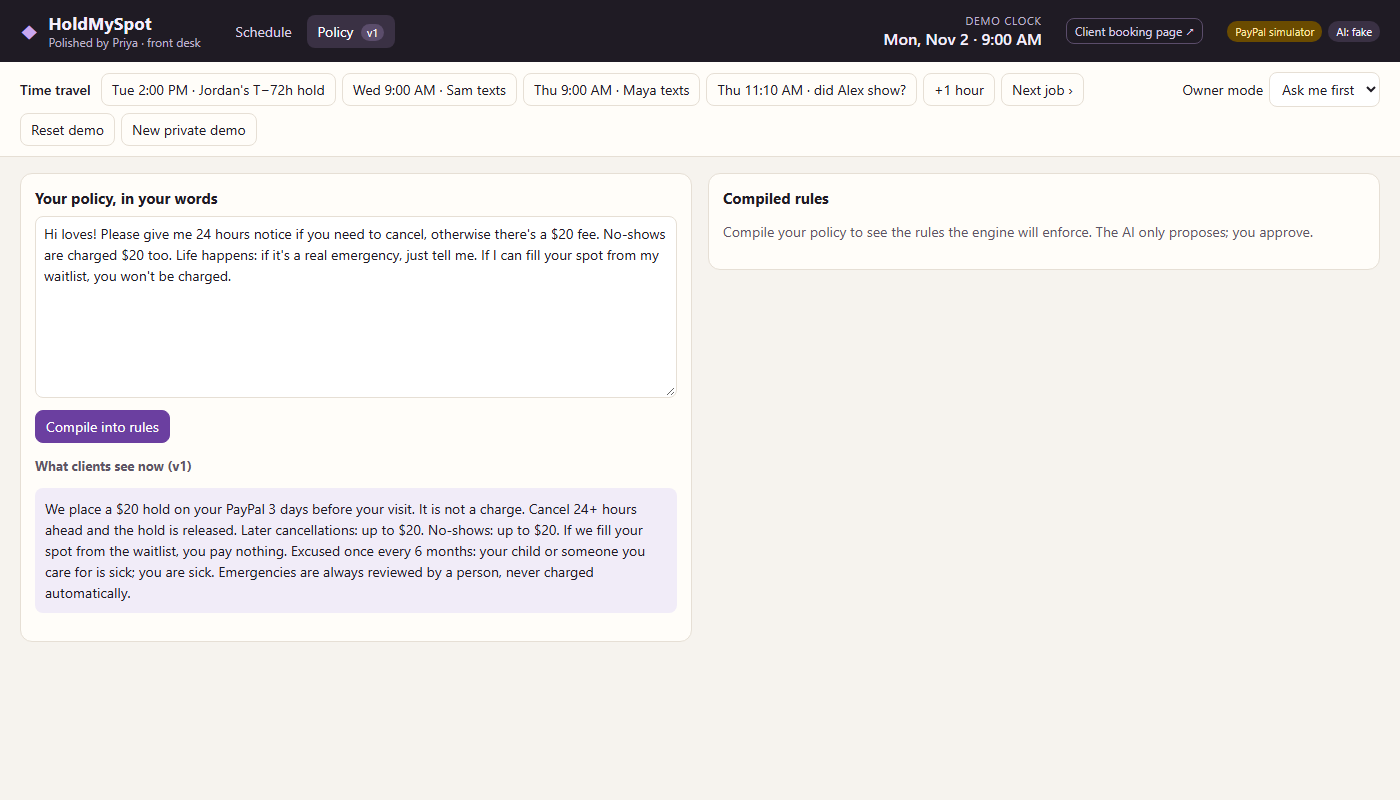
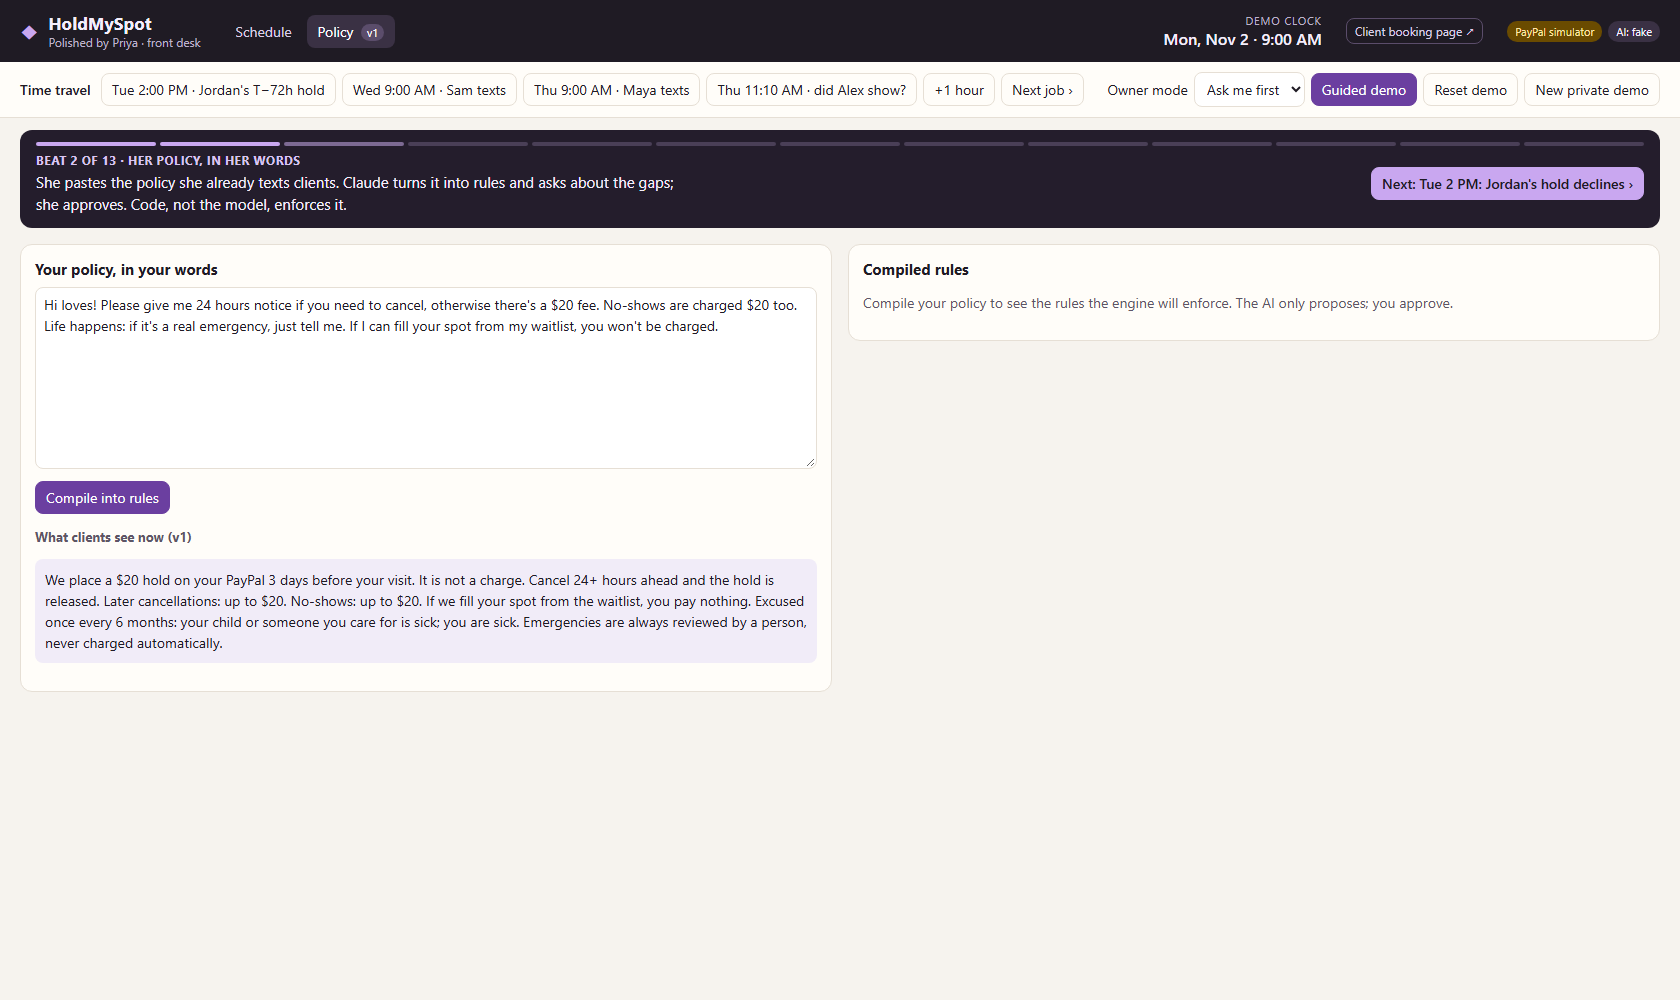
Headless UI check (Playwright + axe, 0 violations), screenshot refresh, a11y fixes (labels, landmarks, headings, contrast, focusable scroll regions), phone thread no longer scrolls the page

Changed region(s): [[0.0, 0.0, 1.0, 0.375], [0.0, 0.4688, 0.4914, 0.75]]

diff --git a/server/src/scripts/ui-check.ts b/server/src/scripts/ui-check.ts
@@ -1,0 +1,151 @@
+/**
+ * Headless UI check: starts the app in-process (PayPal simulator, fake LLM) on an unusual port,
+ * drives the built web UI in an isolated headless Chromium, runs axe-core on every screen, and
+ * refreshes docs/screenshots. Needs `npm run build -w web` first and the Playwright Chromium build
+ * (`npx playwright-core install chromium-headless-shell` if missing).
+ *
+ *   npm run ui-check            # from the repo root
+ *   UI_CHECK_SHOTS=0 npm run ui-check   # skip screenshots
+ */
+import { mkdirSync, readFileSync } from 'node:fs';
+import { createRequire } from 'node:module';
+import { dirname, resolve } from 'node:path';
+import { fileURLToPath } from 'node:url';
+import { chromium, type Page } from 'playwright-core';
+import { buildApp } from '../app.js';
+import { Workspaces } from '../workspaces.js';
+
+const here = dirname(fileURLToPath(import.meta.url));
+const root = resolve(here, '../../..');
+const shots = resolve(root, 'docs/screenshots');
+const takeShots = process.env.UI_CHECK_SHOTS !== '0';
+const port = Number(process.env.UI_CHECK_PORT ?? 18091);
+const require = createRequire(import.meta.url);
+const axeSource = readFileSync(require.resolve('axe-core/axe.min.js'), 'utf8');
+
+type Violation = { id: string; impact: string; help: string; nodes: Array<{ target: string[] }> };
+const failures: string[] = [];
+const report: string[] = [];
+
+async function axe(page: Page, label: string): Promise<void> {
+  await page.addScriptTag({ content: axeSource });
+  const v = (await page.evaluate(async () => {
+    // @ts-expect-error injected global
+    const r = await window.axe.run(document, { resultTypes: ['violations'] });
+    return r.violations.map((x: any) => ({ id: x.id, impact: x.impact, help: x.help, nodes: x.nodes.map((n: any) => ({ target: n.target })) }));
+  })) as Violation[];
+  const bad = v.filter((x) => x.impact === 'serious' || x.impact === 'critical');
+  report.push(`axe ${label}: ${v.length} violations (${bad.length} serious/critical)${v.length ? ': ' + v.map((x) => `${x.id}[${x.impact}]x${x.nodes.length}`).join(', ') : ''}`);
+  for (const x of bad) failures.push(`${label}: ${x.id} (${x.impact}) ${x.help} @ ${x.nodes.slice(0, 3).map((n) => n.target.join(' ')).join(' | ')}`);
+}
+
+async function shot(page: Page, name: string, fullPage = false): Promise<void> {
+  if (takeShots) await page.screenshot({ path: resolve(shots, name), fullPage });
+}
+
+function check(cond: boolean, what: string): void {
+  report.push(`${cond ? 'ok  ' : 'FAIL'} ${what}`);
+  if (!cond) failures.push(what);
+}
+
+const workspaces = new Workspaces();
+await workspaces.create('demo');
+const app = await buildApp({ workspaces, webDist: resolve(root, 'web/dist') });
+await app.listen({ port, host: '127.0.0.1' });
+const base = `http://127.0.0.1:${port}`;
+mkdirSync(shots, { recursive: true });
+
+const browser = await chromium.launch({ headless: true });
+try {
+  const newWs = async () => (await (await fetch(`${base}/api/workspaces`, { method: 'POST' })).json()).id as string;
+
+  // ---- desktop console + guided demo ----
+  const desk = await browser.newPage({ viewport: { width: 1680, height: 1000 } });
+  desk.on('pageerror', (e) => failures.push(`page error: ${e.message} ${(e.stack ?? '').split('\n').slice(0, 4).join(' <- ')}`));
+  desk.on('console', (m) => m.type() === 'error' && report.push(`console: ${m.text()}`));
+  const ws1 = await newWs();
+  await desk.goto(`${base}/?ws=${ws1}&demo=1`);
+  await desk.getByRole('button', { name: /^Start:/ }).waitFor();
+  await axe(desk, 'console desktop (start)');
+  await shot(desk, 'console-main.png');
+  const chipText = async (client: string) => (await desk.locator('.booking .chip.big').textContent())?.trim() + ` (${client})`;
+  const beats: Record<number, string> = {};
+  for (let i = 1; i <= 13; i++) {
+    await desk.locator('.demo-next').click();
+    await desk
+      .getByText(`Beat ${i} of 13`)
+      .waitFor({ timeout: 8000 })
+      .catch(async (e) => {
+        await desk.screenshot({ path: resolve(shots, `../ui-check-fail-beat${i}.png`) });
+        throw new Error(`beat ${i} did not show (${failures.join('; ')}): ${e}`);
+      });
+    await desk.waitForTimeout(150);
+    if (i === 2) {
+      await axe(desk, 'policy tab');
+      await shot(desk, 'policy-editor.png');
+    }
+    if ([4, 6, 9, 12, 13].includes(i)) beats[i] = await chipText(String(i));
+    if (i === 6) await shot(desk, 'console-hero1-excused.png');
+    if (i === 9) {
+      await axe(desk, 'console desktop (hero 2 refilled)');
+      await shot(desk, 'console-hero2-refilled.png');
+    }
+    if (i === 12) await shot(desk, 'console-hero3-charged.png');
+  }
+  check(/^held \$20/.test(beats[4]), `beat 4 Jordan re-approved → ${beats[4]}`);
+  check(/^released · \$0/.test(beats[6]), `beat 6 Sam excused → ${beats[6]}`);
+  check(/^released · \$0/.test(beats[9]), `beat 9 Maya refilled → ${beats[9]}`);
+  check(/^charged \$20/.test(beats[12]), `beat 12 Alex charged → ${beats[12]}`);
+  check(/^refunded \$20/.test(beats[13]), `beat 13 Alex refunded → ${beats[13]}`);
+  await desk.locator('details.legend summary').click();
+  await axe(desk, 'console desktop (end, legend open)');
+  await shot(desk, 'console-demo-end.png');
+  check((await desk.getByRole('button', { name: /Replay from the start/ }).count()) === 1, 'demo ends with a replay button');
+
+  // ---- phone-width console ----
+  const mob = await browser.newPage({ viewport: { width: 390, height: 844 }, deviceScaleFactor: 2, isMobile: true, hasTouch: true });
+  await mob.goto(`${base}/?ws=${ws1}&sel=${(await (await fetch(`${base}/api/ws/${ws1}/demo`)).json()).bookingIds.maya}&phone=maya`);
+  await mob.locator('.strip').waitFor();
+  const overflow = await mob.evaluate(() => document.documentElement.scrollWidth - window.innerWidth);
+  check(overflow <= 0, `console at 390px has no sideways page scroll (overflow ${overflow}px)`);
+  await axe(mob, 'console 390px');
+  await shot(mob, 'console-mobile.png');
+
+  // ---- booking page (390px): book + approve the hold ----
+  const ws2 = await newWs();
+  const book = await browser.newPage({ viewport: { width: 390, height: 844 }, deviceScaleFactor: 2, isMobile: true, hasTouch: true });
+  await book.goto(`${base}/book?ws=${ws2}`);
+  await book.locator('.slot').first().waitFor();
+  const bOverflow = await book.evaluate(() => document.documentElement.scrollWidth - window.innerWidth);
+  check(bOverflow <= 0, `booking page at 390px has no sideways scroll (overflow ${bOverflow}px)`);
+  await axe(book, 'booking page 390px');
+  await book.locator('.slot').first().click();
+  await book.getByLabel('Your name').fill('Jamie Doe');
+  await book.getByRole('checkbox').check();
+  await shot(book, 'booking-page-mobile.png', true);
+  await book.getByRole('button', { name: 'Book and approve with PayPal' }).click();
+  await book.getByRole('heading', { name: 'One last step' }).waitFor();
+  await axe(book, 'booking page approve step');
+  await book.getByRole('button', { name: 'Approve with PayPal' }).click();
+  await book.getByRole('heading', { name: "You're booked" }).waitFor();
+  const doneText = (await book.locator('.book-card.done').textContent()) ?? '';
+  check(/not a charge/.test(doneText), 'booking page confirms the hold is not a charge');
+  await shot(book, 'booking-page-booked.png');
+
+  // ---- error state: unknown workspace ----
+  const err = await browser.newPage({ viewport: { width: 390, height: 844 } });
+  await err.goto(`${base}/?ws=gone`);
+  await err.getByRole('heading', { name: /isn’t available/ }).waitFor();
+  await axe(err, 'console unknown workspace');
+  check(true, 'unknown workspace shows an error state');
+} finally {
+  await browser.close();
+  await app.close();
+}
+
+console.log(report.join('\n'));
+if (failures.length) {
+  console.error(`\n${failures.length} failure(s):\n- ${failures.join('\n- ')}`);
+  process.exit(1);
+}
+console.log('\nui-check passed');

diff --git a/web/src/App.tsx b/web/src/App.tsx
@@ -123,7 +123,7 @@ export function App() {
 
   if (!s) {
     return loadError ? (
-      <div className="loading" role="alert">
+      <main className="loading">
         <h1>This demo workspace isn’t available</h1>
         <p className="muted">
           {loadError}. Private demos are kept in memory and reset when the server restarts.
@@ -131,7 +131,7 @@ export function App() {
         <a className="button primary" href="/">
           Open the shared demo
         </a>
-      </div>
+      </main>
     ) : (
       <div className="loading" role="status" aria-live="polite">
         <span className="spinner" aria-hidden /> Loading HoldMySpot…
@@ -149,11 +149,11 @@ export function App() {
             ◆
           </span>
           <div>
-            <div className="brand-name">HoldMySpot</div>
+            <h1 className="brand-name">HoldMySpot</h1>
             <div className="brand-sub">{s.business} · front desk</div>
           </div>
         </div>
-        <nav className="tabs">
+        <nav className="tabs" aria-label="Views">
           <button className={tab === 'console' ? 'on' : ''} onClick={() => setTab('console')}>
             Schedule
           </button>
@@ -176,7 +176,7 @@ export function App() {
         </div>
       </header>
 
-      <div className="travel">
+      <nav className="travel" aria-label="Demo clock and controls">
         <span className="travel-label">Time travel</span>
         {SCENES.map((sc) => (
           <button key={sc.label} disabled={busy || sc.at <= s.now} onClick={() => run(() => api.travel(sc.at))}>
@@ -214,7 +214,7 @@ export function App() {
         >
           New private demo
         </button>
-      </div>
+      </nav>
 
       {demoOn && s.paymentsMode === 'mock' && <DemoBar api={api} s={s} busy={busy} run={run} applyView={applyView} />}
 
@@ -236,7 +236,7 @@ export function App() {
             <WeekGrid s={s} selected={selected} onSelect={setSelected} />
             <Legend />
           </section>
-          <aside className="side">
+          <aside className="side" aria-label="Approvals and booking details">
             <Approvals s={s} busy={busy} onResolve={(id, c) => run(() => api.resolve(id, c))} onSelect={setSelected} />
             {sel ? (
               <BookingPanel b={sel} s={s} api={api} busy={busy} onRefund={() => run(() => api.refund(sel.id))} onApprove={(o) => run(() => api.simApprove(o))} />
@@ -244,7 +244,7 @@ export function App() {
               <div className="card muted">Select a booking to see its money timeline.</div>
             )}
           </aside>
-          <aside className="phone-col">
+          <aside className="phone-col" aria-label="Client text messages">
             <Phone s={s} busy={busy} clientId={phone} setClientId={setPhone} onSend={(c, t) => run(() => api.send(c, t))} />
           </aside>
         </main>
@@ -480,9 +480,9 @@ function Approvals({
   };
   return (
     <div className="card approvals">
-      <h3>
+      <h2>
         Needs you <span className="count">{s.approvals.length}</span>
-      </h3>
+      </h2>
       {s.approvals.length === 0 && <p className="muted">Nothing to decide. Charges always wait for your tap.</p>}
       {s.approvals
         .slice()
@@ -529,7 +529,7 @@ function BookingPanel({
     <div className="card booking">
       <div className="booking-head">
         <div>
-          <h3>{b.clientName}</h3>
+          <h2>{b.clientName}</h2>
           <div className="muted">
             {b.serviceName} · {fmtDay(b.start)} {fmtTime(b.start)}
           </div>
@@ -543,8 +543,8 @@ function BookingPanel({
       <dl className="facts">
         <dt>State</dt>
         <dd className="mono">{b.state}</dd>
-        <dt>Hold</dt>
-        <dd>{usd(b.holdCents)} authorized on PayPal</dd>
+        <dt>Hold amount</dt>
+        <dd>{usd(b.holdCents)}</dd>
         {b.capturedCents !== undefined && (
           <>
             <dt>Charged</dt>
@@ -589,9 +589,9 @@ function BookingPanel({
           </button>
         )}
       </div>
-      <h4>Money timeline</h4>
+      <h3>Money timeline</h3>
       {audit.length === 0 && <p className="muted small">Loading the audit log…</p>}
-      <ol className="timeline" aria-label={`Audit log for ${b.clientName}`}>
+      <ol className="timeline" tabIndex={0} aria-label={`Audit log for ${b.clientName}`}>
         {audit.map((e) => (
           <li key={e.seq} className={`t-${e.kind}`}>
             <span className="t-time">
@@ -621,8 +621,12 @@ function Phone({
 }) {
   const [text, setText] = useState('');
   const thread = s.messages.filter((m) => m.clientId === clientId);
-  const endRef = useRef<HTMLDivElement>(null);
-  useEffect(() => endRef.current?.scrollIntoView({ block: 'end' }), [thread.length, clientId]);
+  const threadRef = useRef<HTMLDivElement>(null);
+  useEffect(() => {
+    // scroll only the thread, never the page (scrollIntoView would also scroll the window on phones)
+    const el = threadRef.current;
+    if (el) el.scrollTop = el.scrollHeight;
+  }, [thread.length, clientId]);
   const unread = (id: string) => s.messages.filter((m) => m.clientId === id && m.from === 'frontdesk').length;
   const send = (t: string) => {
     if (!t.trim()) return;
@@ -643,7 +647,7 @@ function Phone({
           ))}
         </select>
       </div>
-      <div className="thread">
+      <div className="thread" ref={threadRef} tabIndex={0} role="log" aria-label="Message thread">
         {thread.length === 0 && <p className="muted small center">No messages with {s.clients.find((c) => c.id === clientId)?.name} yet.</p>}
         {thread.map((m) => (
           <div key={m.id} className={`bubble ${m.from}`}>
@@ -651,7 +655,6 @@ function Phone({
             <span className="bubble-time">{fmtTime(m.at)}</span>
           </div>
         ))}
-        <div ref={endRef} />
       </div>
       <div className="quick">
         {(QUICK[clientId] ?? []).map((q) => (
@@ -716,19 +719,19 @@ function PolicyEditor({ s, api, onApproved }: { s: Snapshot; api: Api; onApprove
   return (
     <main className="policy">
       <section className="card">
-        <h3>Your policy, in your words</h3>
-        <textarea value={prose} onChange={(e) => setProse(e.target.value)} rows={8} />
+        <h2>Your policy, in your words</h2>
+        <textarea aria-label="Cancellation policy text" value={prose} onChange={(e) => setProse(e.target.value)} rows={8} />
         <div className="actions">
           <button className="primary" onClick={compile}>
             Compile into rules
           </button>
         </div>
         {spans.length > 0 && <p className="prose-preview" dangerouslySetInnerHTML={{ __html: highlighted }} />}
-        <h4>What clients see now (v{s.policy.version})</h4>
+        <h3>What clients see now (v{s.policy.version})</h3>
         <p className="summary">{s.policy.summary}</p>
       </section>
       <section className="card">
-        <h3>Compiled rules</h3>
+        <h2>Compiled rules</h2>
         {!merged && <p className="muted">Compile your policy to see the rules the engine will enforce. The AI only proposes; you approve.</p>}
         {merged && (
           <>

diff --git a/web/src/styles.css b/web/src/styles.css
@@ -118,6 +118,7 @@ textarea {
   color: #c9a7f0;
 }
 .brand-name {
+  margin: 0;
   font-weight: 700;
   font-size: 17px;
   letter-spacing: 0.2px;
@@ -225,11 +226,11 @@ textarea {
   padding: 14px;
   margin-bottom: 12px;
 }
-.card h3 {
+.card h2 {
   margin: 0 0 8px;
   font-size: 15px;
 }
-.card h4 {
+.card h3 {
   margin: 14px 0 6px;
   font-size: 13px;
   color: var(--ink-2);
@@ -551,7 +552,7 @@ textarea {
 }
 .bubble.client {
   align-self: flex-end;
-  background: #2f7cf6;
+  background: #1d5fd1;
   color: #fff;
   border-bottom-right-radius: 4px;
 }
@@ -563,7 +564,7 @@ textarea {
 .bubble-time {
   display: block;
   font-size: 10px;
-  opacity: 0.65;
+  opacity: 0.9;
   margin-top: 2px;
 }
 .quick {
